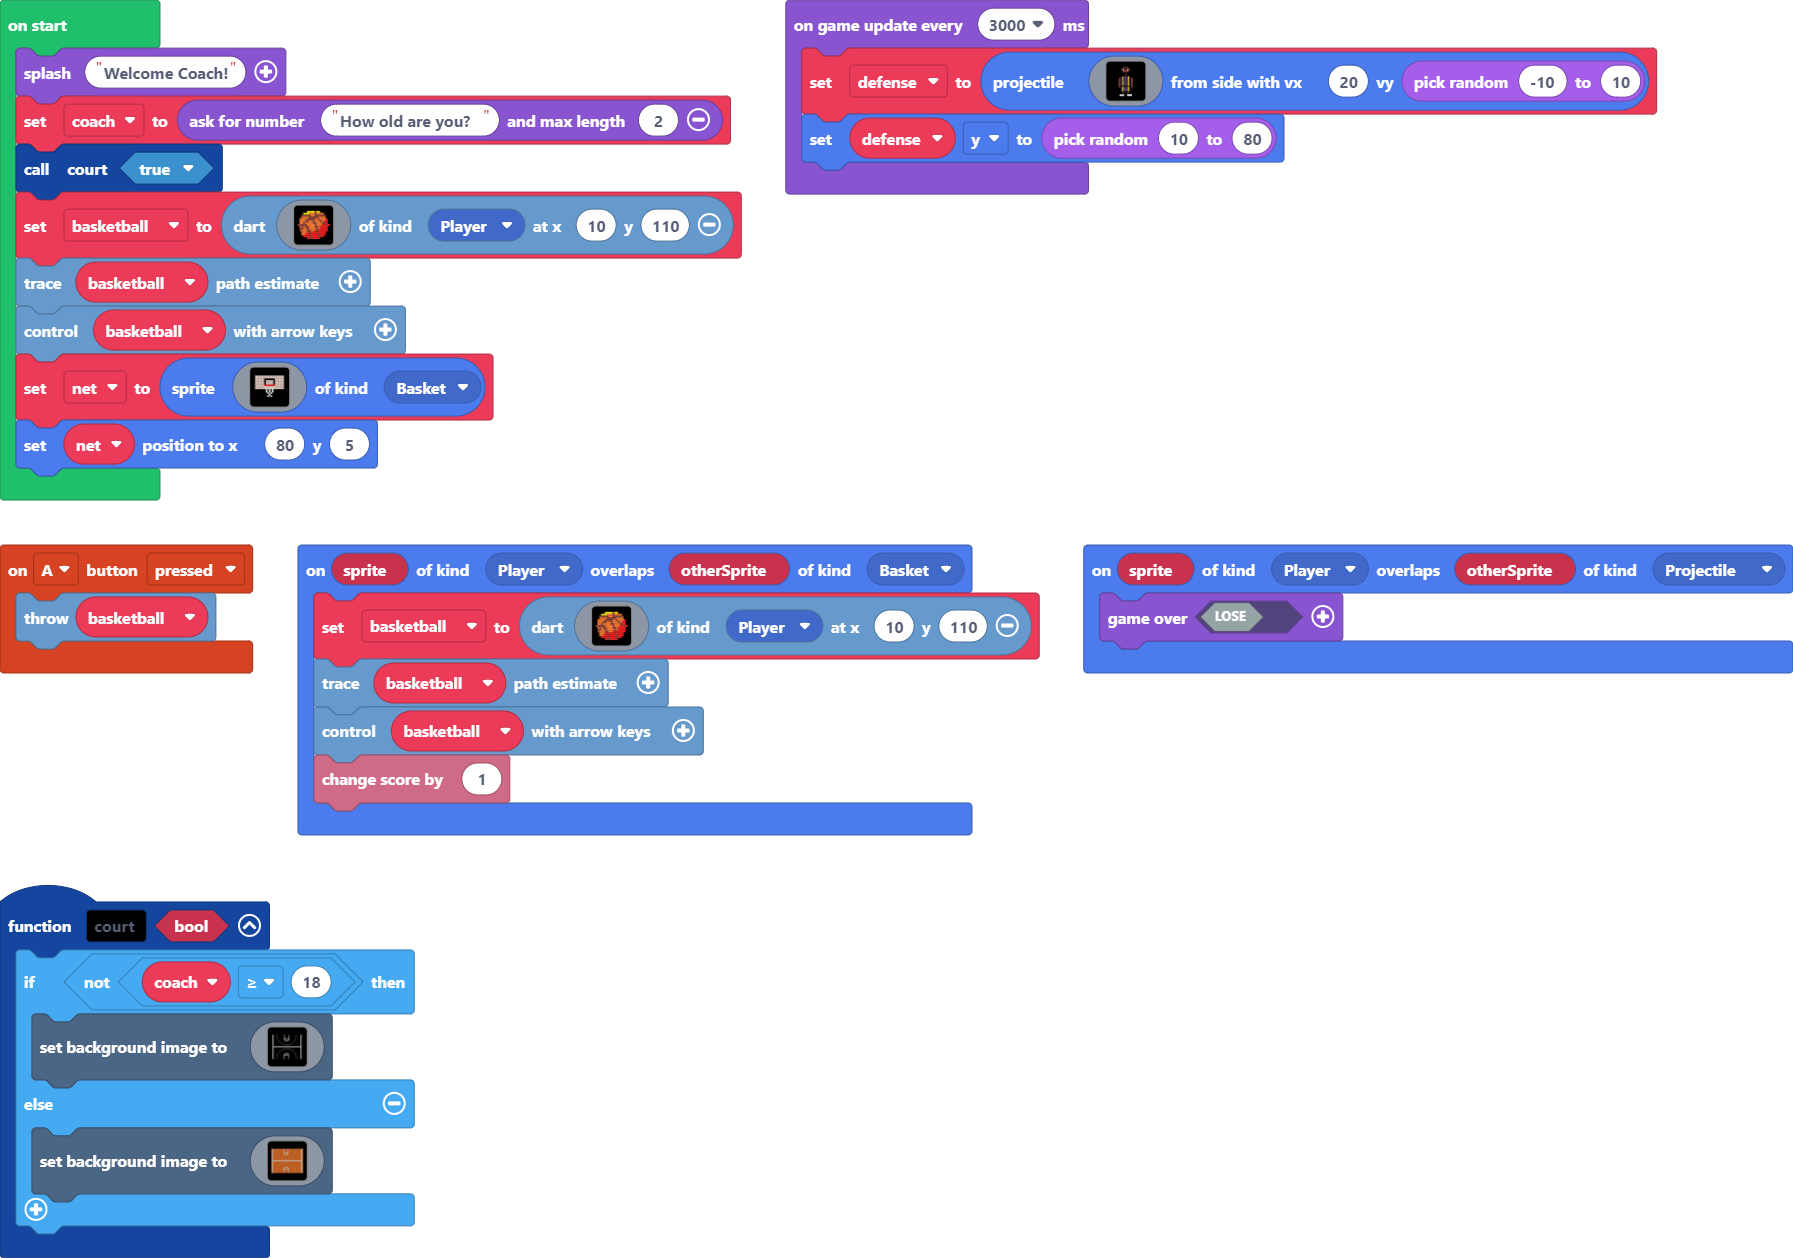
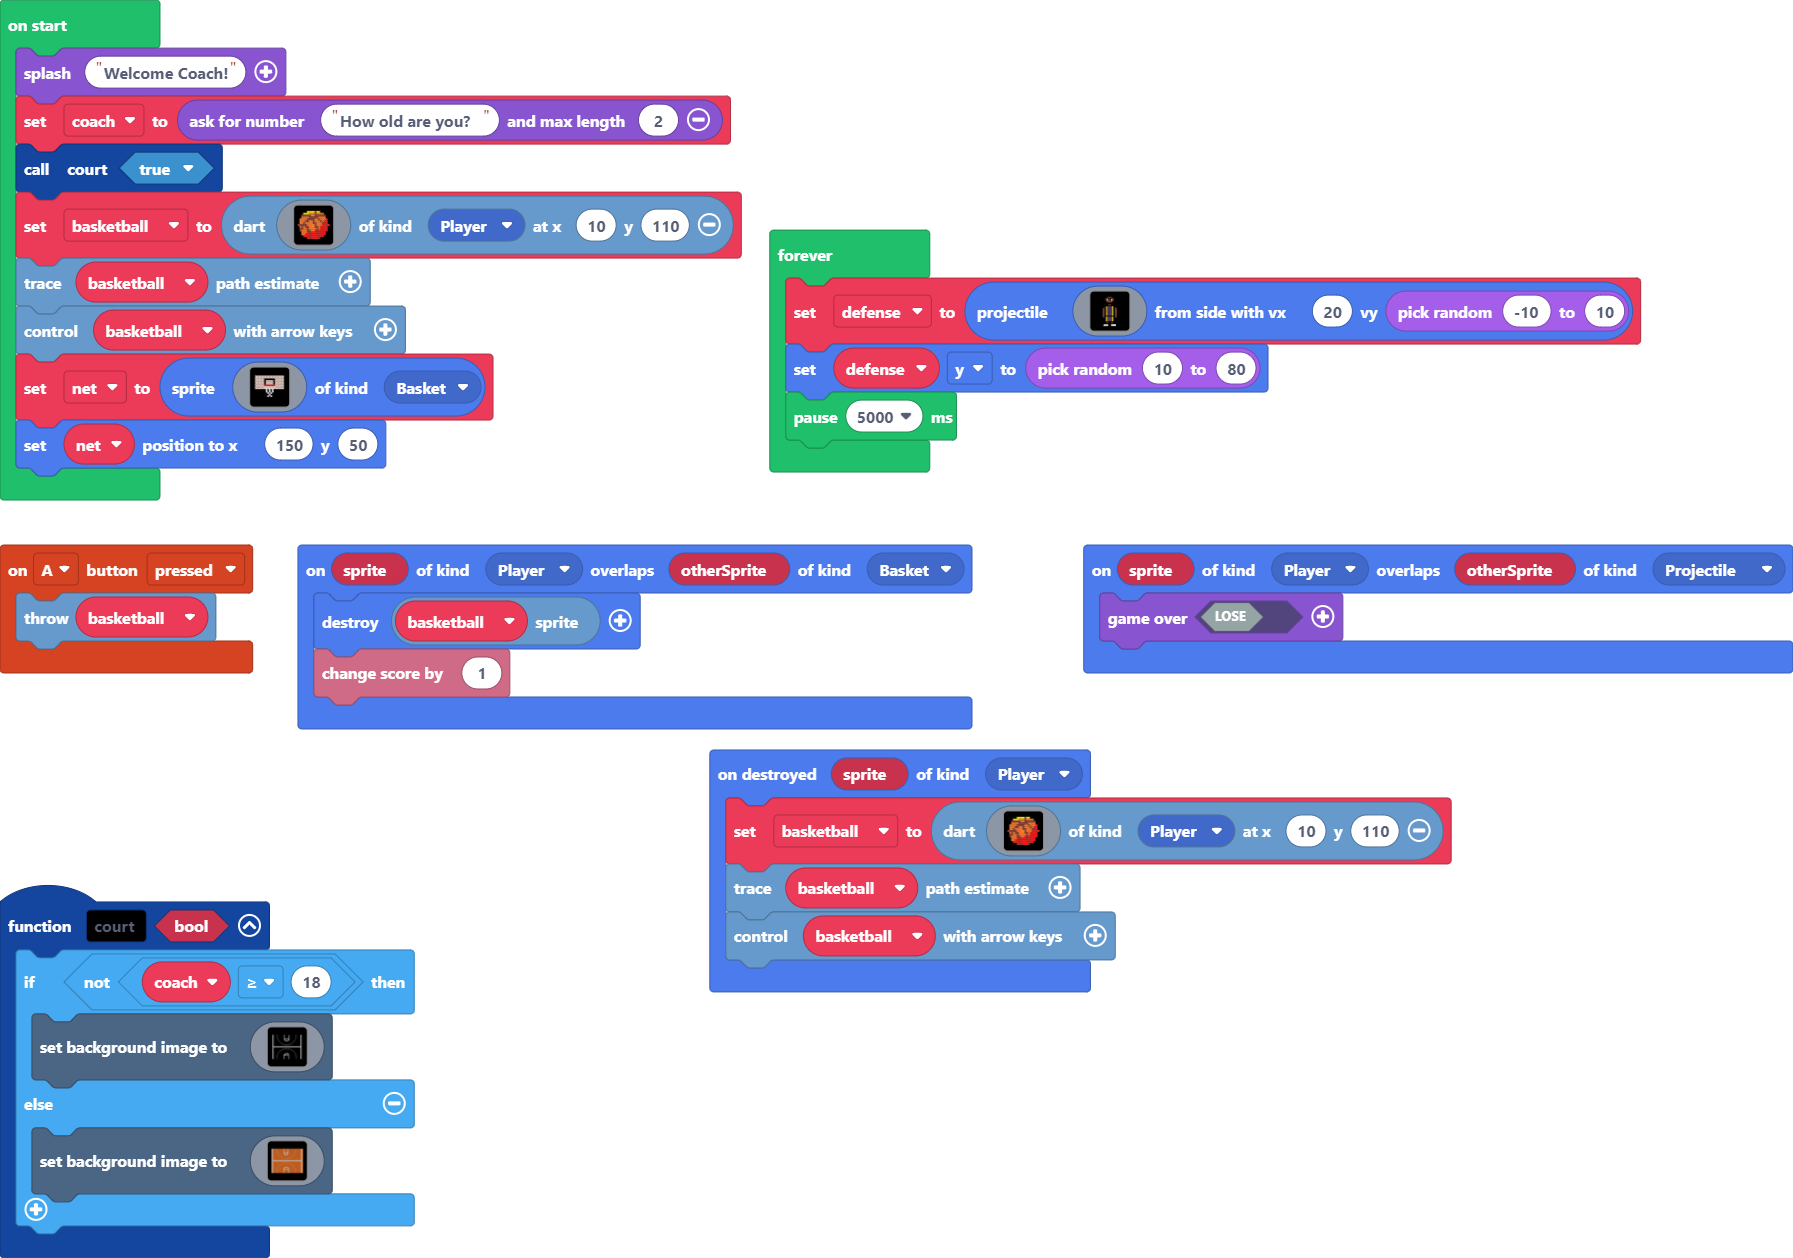
Update main.blocks, main.ts

Changed region(s): [[0.1562, 0.465, 0.812, 0.806], [0.406, 0.0, 0.937, 0.403], [0.1562, 0.341, 0.2186, 0.372]]

diff --git a/main.ts b/main.ts
@@ -1,12 +1,10 @@
 namespace SpriteKind {
     export const Basket = SpriteKind.create()
 }
-// When the A button is pressed then the basketball moves in the direction that the user is aiming.
 controller.A.onEvent(ControllerButtonEvent.Pressed, function () {
     basketball.throwDart()
 })
 function court (bool: boolean) {
-    // Age decides which court the user plays on.
     if (!(coach >= 18)) {
         scene.setBackgroundImage(img`
[1 lines of base64/hex data omitted]
@@ -259,11 +257,9 @@ sprites.onOverlap(SpriteKind.Player, SpriteKind.Basket, function (sprite, otherS
     basketball.sprite.destroy()
     info.changeScoreBy(1)
 })
-// If player basketball overlaps with projectile defense then the game is over and the user loses the game.
 sprites.onOverlap(SpriteKind.Player, SpriteKind.Projectile, function (sprite, otherSprite) {
     game.over(false)
 })
-// After Sprite is destroyed on overlap with the basket, it respawns at it's original start point.
 sprites.onDestroyed(SpriteKind.Player, function (sprite) {
     basketball = darts.create(img`
         . . . . . f f f f f f f . . . . . 
@@ -291,9 +287,7 @@ let defense: Sprite = null
 let basketball: Dart = null
 let coach = 0
 game.splash("Welcome Coach!")
-// Asks for user input of age.
 coach = game.askForNumber("How old are you?", 2)
-// Calls to the court function.
 court(true)
 basketball = darts.create(img`
     . . . . . f f f f f f f . . . . . 
@@ -316,7 +310,6 @@ basketball = darts.create(img`
     `, SpriteKind.Player, 10, 110)
 basketball.setTrace()
 basketball.controlWithArrowKeys()
-// The net sprite is what the user wants to hit with the basketball.
 let net = sprites.create(img`
     fffffffffffffffffffff
     fdddddddddddddddddddf
@@ -336,7 +329,6 @@ let net = sprites.create(img`
     .....................
     `, SpriteKind.Basket)
 net.setPosition(150, 50)
-// This forever loop makes sure that defense projectiles are consistently flying across the screen.
 forever(function () {
     defense = sprites.createProjectileFromSide(img`
         ...................
